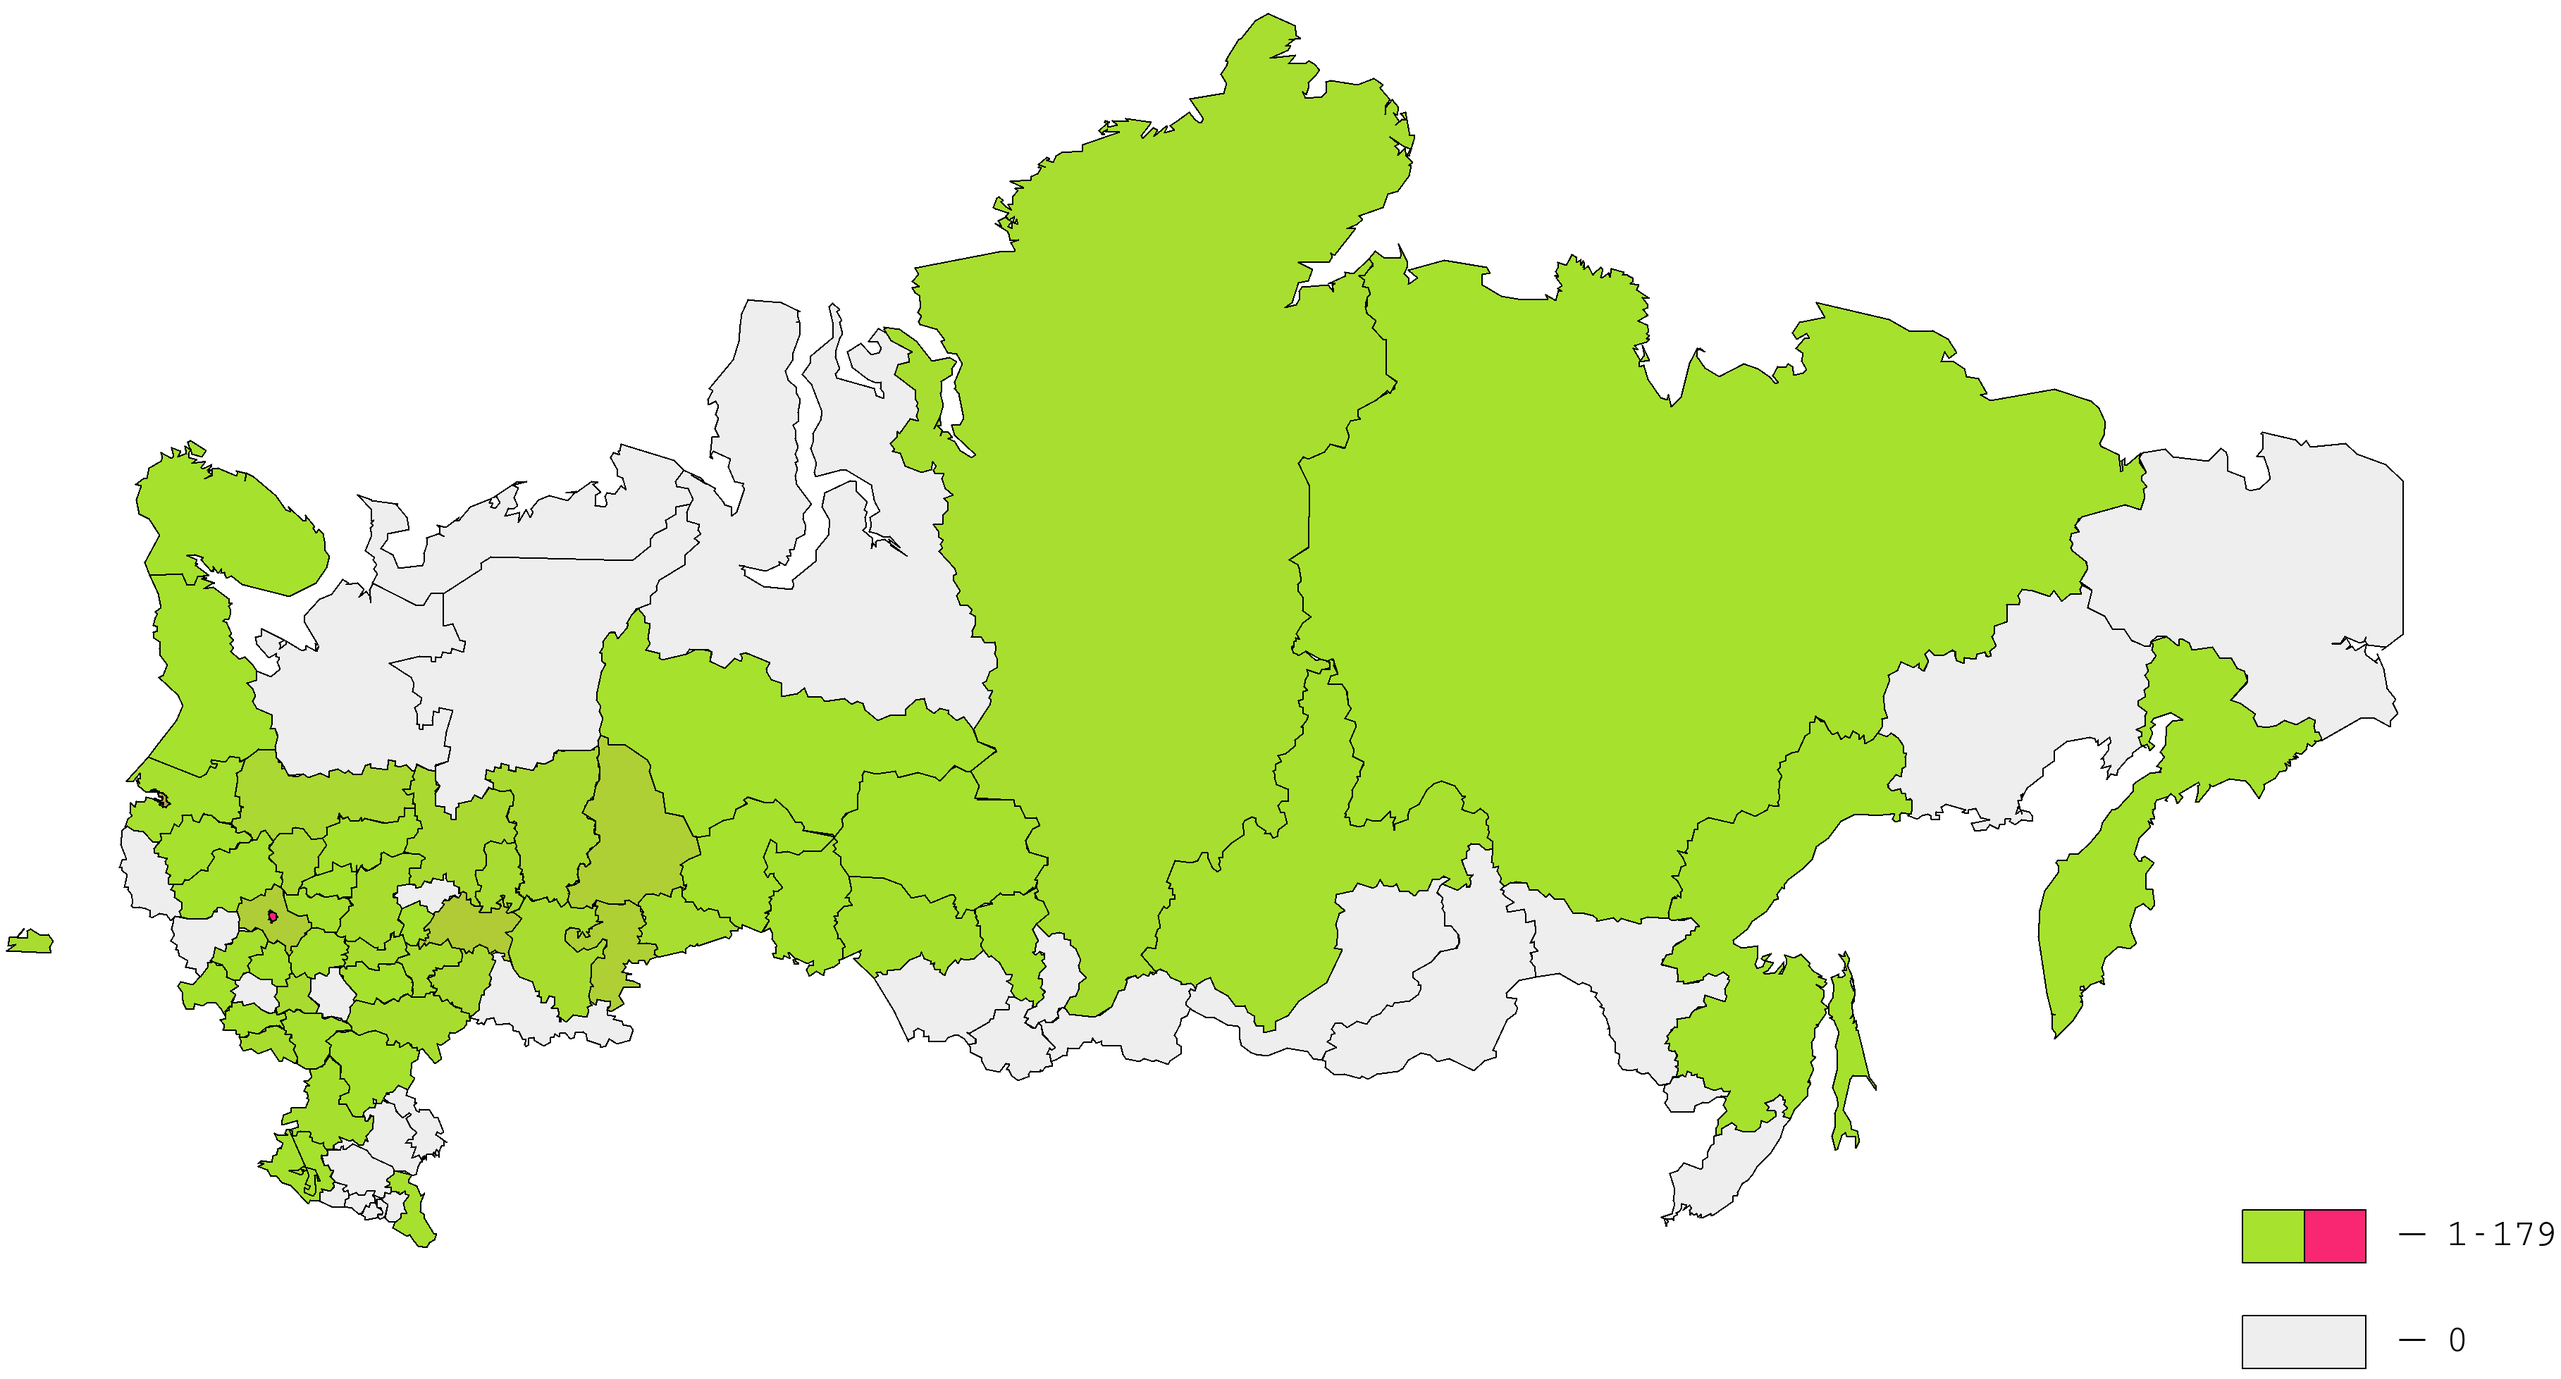
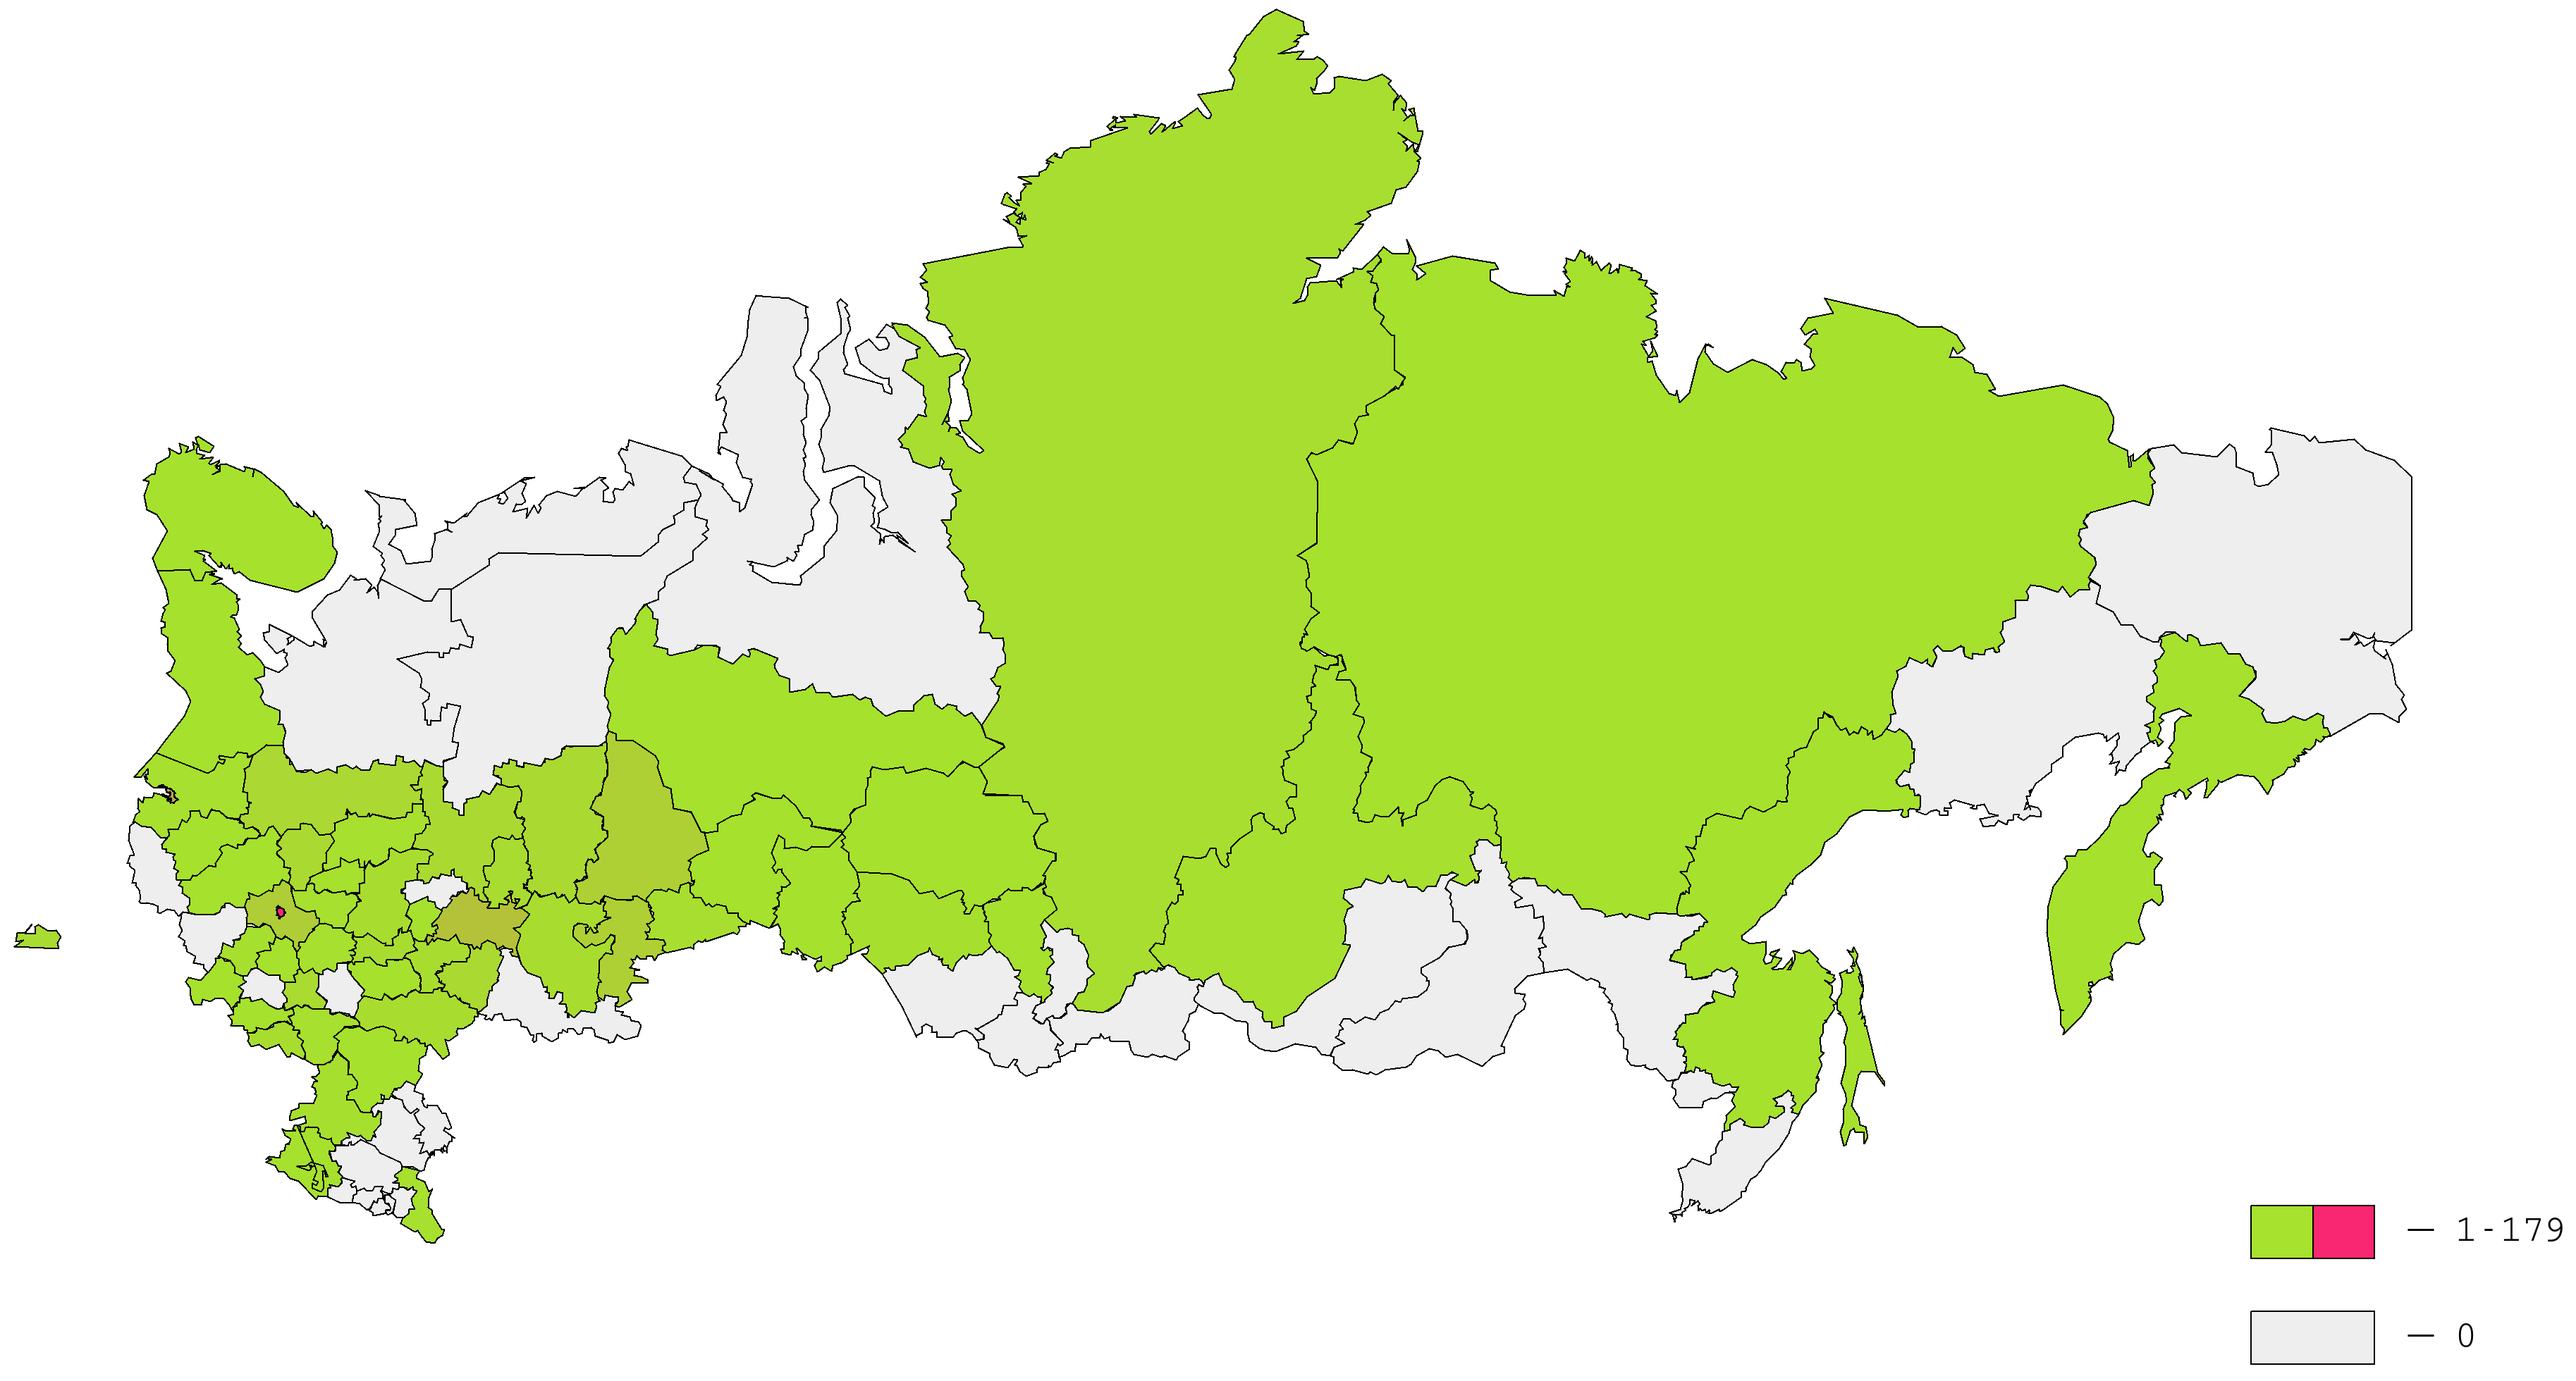
Critical fix

diff --git a/analyze.py b/analyze.py
@@ -18,7 +18,7 @@ for subject in contests:
 for season in admissions:
 	for subject in admissions[season]:
 		for university in admissions[season][subject]:
-			got[regions[universityRegions[university]]] += 1
+			got[regions[universityRegions[university]]] += len(admissions[season][subject][university])
 
 sortedIds = sorted(list(range(nRegions)), key=lambda i: out[i], reverse=True)
 for i in range(nRegions):

diff --git a/regions.py b/regions.py
@@ -36,7 +36,6 @@ aliases = [
 	{'Ленинградская область'},
 	{'Волгоградская область'},
 	{'Удмуртская республика'},
-	{'Республика Татарстан'},
 	{'Иркутская область'},
 	{'Новосибирская область'},
 	{'Белгородская область'},
